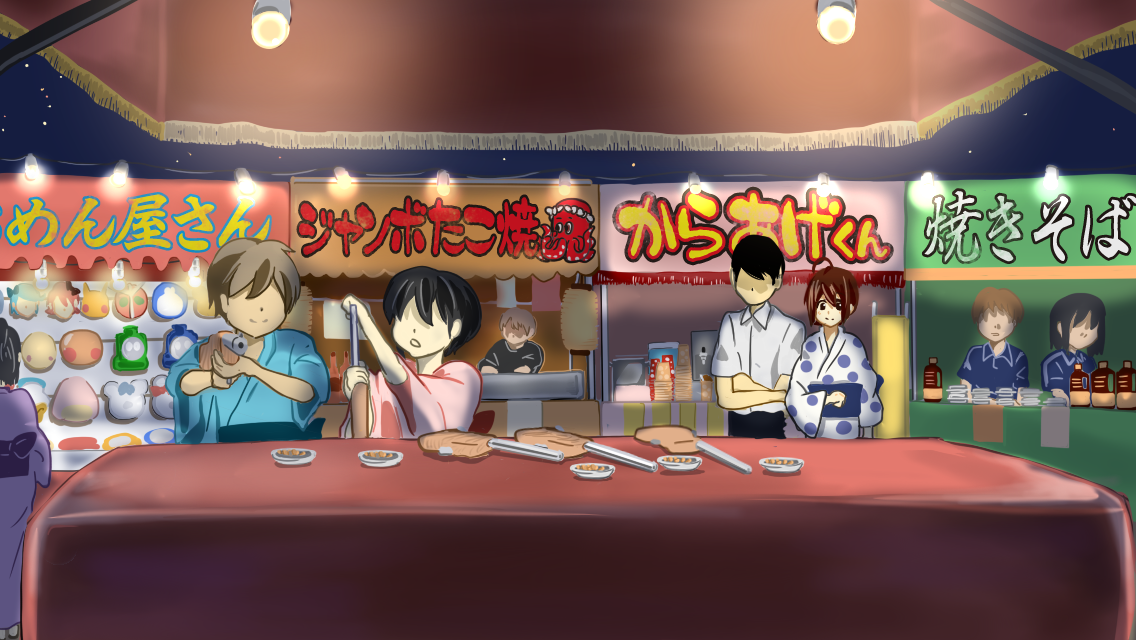
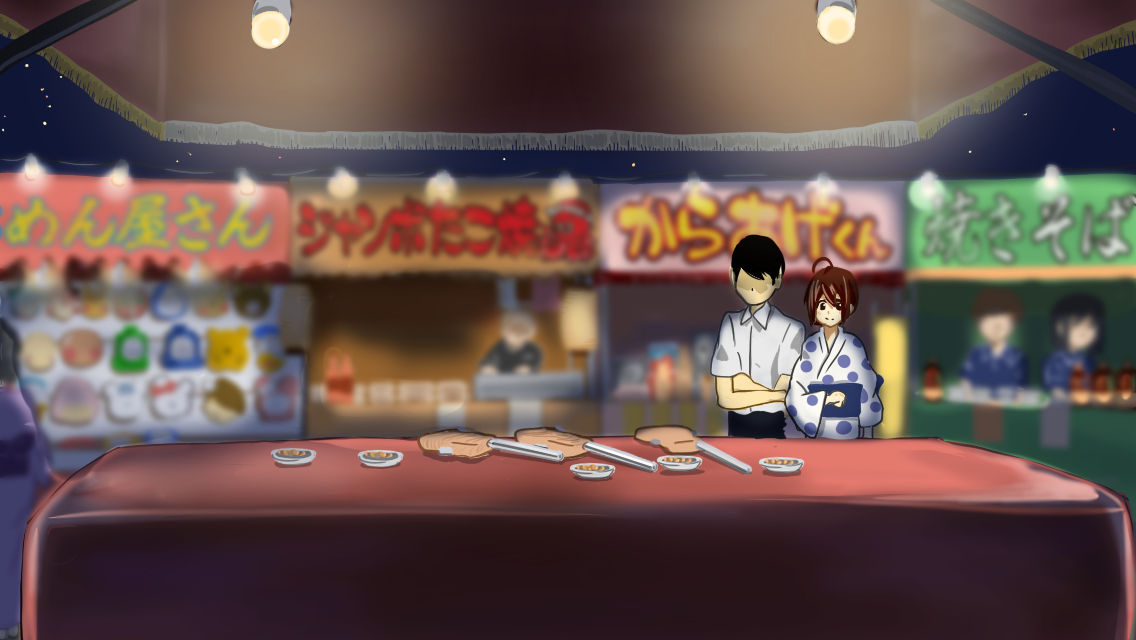
射的のスチルのシーン修正 子ども達の絵を途中で消すような処理を行うようにした。

diff --git a/nov.1/MainGameScene.m b/nov.1/MainGameScene.m
@@ -359,6 +359,10 @@
                 [self.right setVisible:NO];
             }else if([string isEqualToString:@"left"]){
                 [self.left setVisible:NO];
+            }else{
+                // 数値が来た場合指定して削除が可能
+                CCSprite *sprite = (CCSprite *)[self getChildByTag: [[dictionary objectForKey:@"position"] longLongValue]];
+                [sprite runAction:[CCFadeOut actionWithDuration:0.3f]];
             }
         }else if([[dictionary objectForKey:@"instruct_name"] isEqualToString:@"# BGM"]){
             //BGM開始
